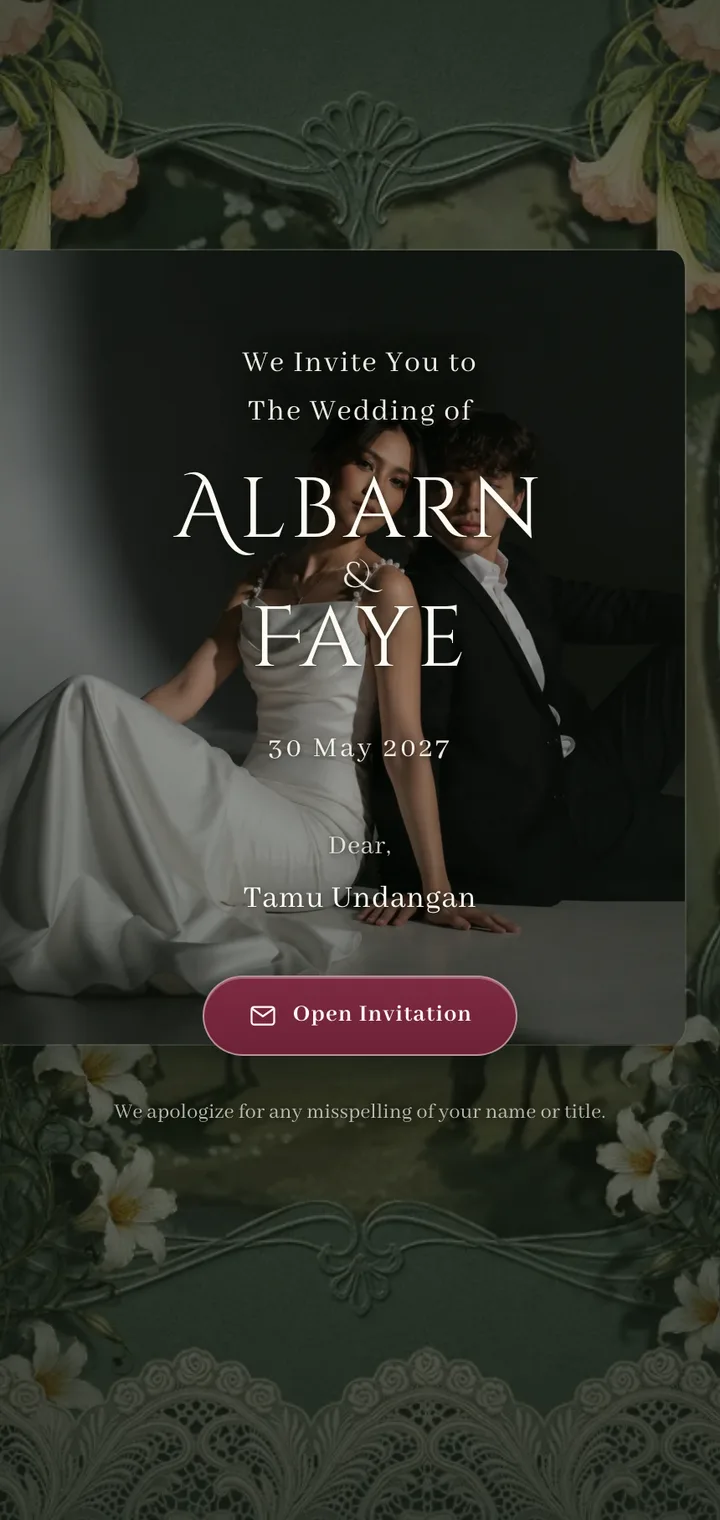
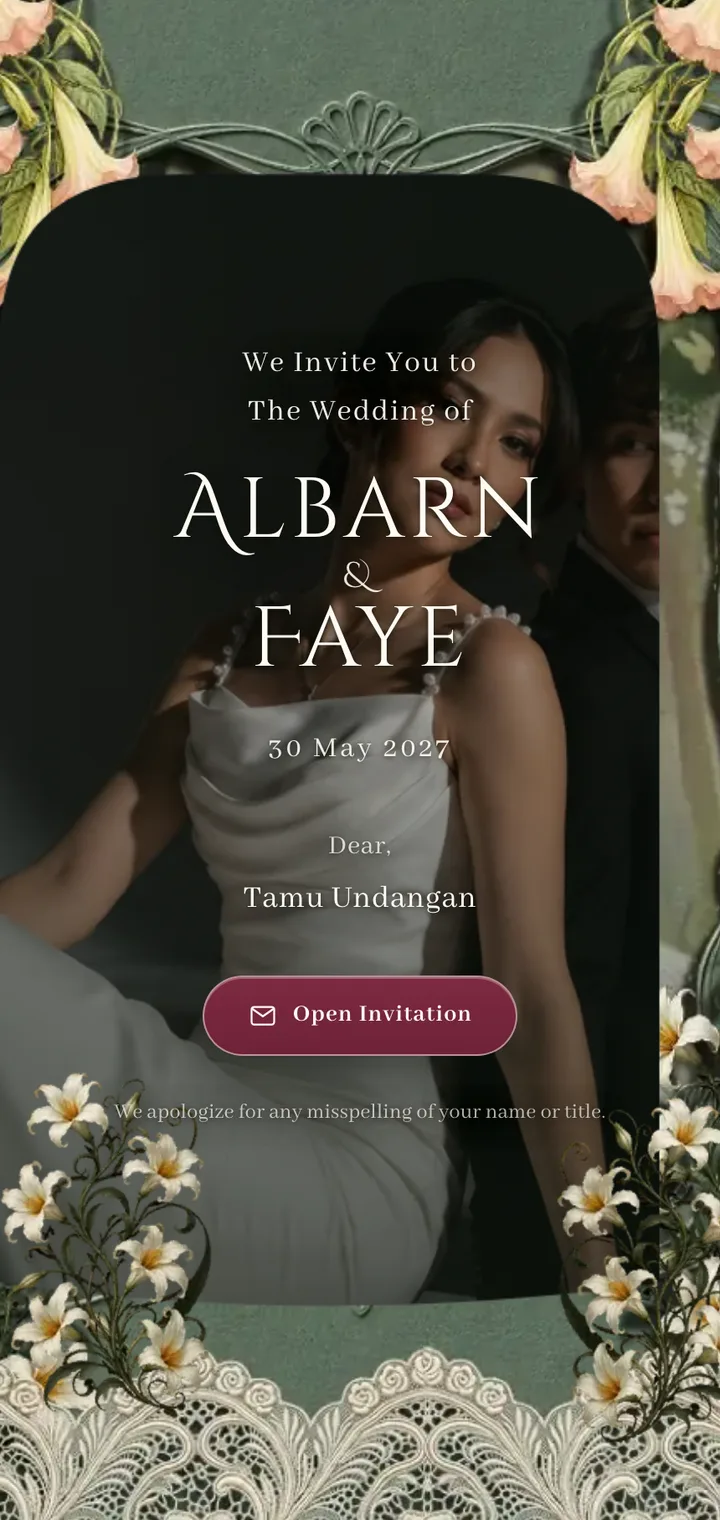
feat(emerald-heirloom): cover photo fills the carved frame like mempelai
cover-frame.webp is the cover plate with the opening cut out (alpha), so the
Foto Sampul sits behind the ornaments and fills the window edge to edge instead
of reading as a card inside the frame. The two lily clusters the cut crosses are
re-drawn on top; without a photo the uncut plate is used.

diff --git a/src/components/templates/emerald-heirloom/emerald-heirloom.css b/src/components/templates/emerald-heirloom/emerald-heirloom.css
@@ -117,21 +117,40 @@ body.eh-locked {
   object-fit: fill;
 }
 
-/* Window measured inside the carved frame, above the lilies and clear of the
-   fans: the painted meadow below stays as the mat. */
-.eh-gate__photo {
+/* The photograph sits behind the cut-out plate, so it fills the carved opening
+   exactly like the mempelai portraits (no card edge). The two lily clusters of
+   the plate are re-drawn on top because the cut passes through their petals. */
+.eh-gate__shot {
   position: absolute;
-  left: 34%;
-  top: 17.4%;
-  width: 29%;
-  height: 50.8%;
+  inset: 0;
+  width: 100%;
+  height: 100%;
   object-fit: cover;
-  object-position: center 30%;
-  border-radius: 2% / 2.4%;
-  box-shadow:
-    0 0 0 1px rgba(255, 250, 243, 0.32),
-    0 18px 44px rgba(10, 16, 10, 0.5),
-    inset 0 0 60px rgba(10, 16, 10, 0.35);
+  object-position: center 20%;
+}
+
+.eh-gate__art {
+  position: relative;
+  z-index: 2;
+}
+
+.eh-gate__lily {
+  position: absolute;
+  z-index: 3;
+  width: 16%;
+  pointer-events: none;
+}
+
+.eh-gate__lily--left {
+  left: 30.5%;
+  bottom: 6%;
+  rotate: -6deg;
+}
+
+.eh-gate__lily--right {
+  left: 55.5%;
+  bottom: 4.5%;
+  scale: -1 1;
 }
 
 .eh-gate__veil {
@@ -145,6 +164,7 @@ body.eh-locked {
 .eh-gate__copy {
   position: absolute;
   inset: 0;
+  z-index: 5;
   display: flex;
   flex-direction: column;
   align-items: center;

diff --git a/src/components/templates/emerald-heirloom/index.tsx b/src/components/templates/emerald-heirloom/index.tsx
@@ -613,8 +613,16 @@ export default function EmeraldHeirloom(profile: TemplateProps) {
       >
         <div className="eh-gate__stage">
           <div className="eh-gate__plate">
-            <img className="eh-gate__art" src={EH_ASSETS.cover} alt="" draggable={false} />
-            {stagePhoto && <img className="eh-gate__photo" src={stagePhoto} alt="" draggable={false} />}
+            {stagePhoto ? (
+              <>
+                <img className="eh-gate__shot" src={stagePhoto} alt="" draggable={false} />
+                <img className="eh-gate__art" src={EH_ASSETS.coverFrame} alt="" draggable={false} />
+                <img className="eh-gate__lily eh-gate__lily--left" src={EH_ASSETS.lilies} alt="" aria-hidden="true" draggable={false} />
+                <img className="eh-gate__lily eh-gate__lily--right" src={EH_ASSETS.lilies} alt="" aria-hidden="true" draggable={false} />
+              </>
+            ) : (
+              <img className="eh-gate__art" src={EH_ASSETS.cover} alt="" draggable={false} />
+            )}
           </div>
         </div>
         <div className="eh-gate__veil" aria-hidden="true" />

diff --git a/src/components/templates/emerald-heirloom/assets.ts b/src/components/templates/emerald-heirloom/assets.ts
@@ -11,8 +11,11 @@
 const BASE = "/templates/emerald-heirloom"
 
 export const EH_ASSETS = {
-  // Cover gate + the fixed desktop art panel
+  // Cover gate + the fixed desktop art panel. `coverFrame` is the same plate
+  // with the carved opening cut out (alpha), so the couple's photo can sit
+  // inside the frame exactly like the mempelai portraits do.
   cover: `${BASE}/cover.webp`,
+  coverFrame: `${BASE}/cover-frame.webp`,
 
   // Welcome arch: painting behind, carved frame with a 73% x 54.9% window on top
   welcomeScene: `${BASE}/welcome-scene.webp`,

diff --git a/docs/REA_EMERALD_HEIRLOOM.md b/docs/REA_EMERALD_HEIRLOOM.md
@@ -82,7 +82,8 @@ fixed art panel at `965/1440` (67%) plus a 480px column; text is
 
 | File | Source | Role |
 |---|---|---|
-| `cover.webp` | `92853/group-123436-(5)` | gate + desktop art panel |
+| `cover.webp` | `92853/group-123436-(5)` | gate + desktop art panel (no photo) |
+| `cover-frame.webp` | cut from `cover.webp` | the same plate with the carved opening cut out (alpha), so the sampul photo fills the frame exactly like the mempelai portraits |
 | `welcome-scene.webp` | `92409/gemini…-5` | painting inside the welcome window |
 | `welcome-frame.webp` | `92412/2-902713-(1)` | carved frame (window above) |
 | `welcome-scene-alt.webp` | `92822/1-9970608` | dimmed opening backdrop |
